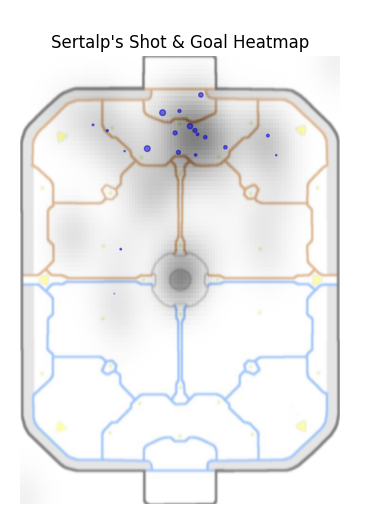
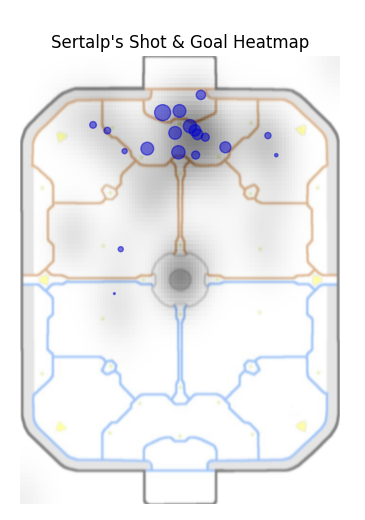
Made goal circles bigger for goal heatmaps, added records, fixed GD chart

diff --git a/src/boxcarstest.py b/src/boxcarstest.py
@@ -12,7 +12,7 @@
 # TODO: Demo heatmap
 # TODO: Auto detect games in latest streak, clear /json-new/, and copy them to /json-new/
 # TODO: Replace SF, SC with HF, HC
-# TODO: Update records (lowest non-shot xG goal etc)
+# TODO: Add corresponding matches to records.tsv
 
 import csv
 import json
@@ -34,7 +34,7 @@ from PIL import Image
 
 startTime = time.time()
 
-check_new = False  # Only processes new files (in separate directory)
+check_new = True  # Only processes new files (in separate directory)
 show_xg_scorelines = False # Shows xG scorelines and normal scorelines and replay names of games
 save_and_crop = True # Saves an image of the dashboard and then crops charts into their own images
 
@@ -334,6 +334,7 @@ my_nonshot_xg = 0
 your_nonshot_xg = 0
 their_nonshot_xg = 0
 
+
 my_goal_xg = 0
 your_goal_xg = 0
 their_goal_xg = 0
@@ -342,10 +343,23 @@ my_xg_over_time = []
 your_xg_over_time = []
 their_xg_over_time = []
 
-my_xg_per_goal_list = []
-your_xg_per_goal_list = []
-their_xg_per_goal_list = []
+my_shot_xg_over_time = []
+your_shot_xg_over_time = []
+their_shot_xg_over_time = []
 
+my_nonshot_xg_over_time = []
+your_nonshot_xg_over_time = []
+their_nonshot_xg_over_time = []
+
+my_xg_per_shot_goal_list = []
+your_xg_per_shot_goal_list = []
+their_xg_per_shot_goal_list = []
+
+my_xg_per_nonshot_goal_list = []
+your_xg_per_nonshot_goal_list = []
+their_xg_per_nonshot_goal_list = []
+
+# from shots
 my_xg_per_miss_list = []
 your_xg_per_miss_list = []
 their_xg_per_miss_list = []
@@ -402,6 +416,14 @@ for file in new_json_files:
         my_local_xg = 0
         your_local_xg = 0
         their_local_xg = 0
+        
+        my_local_shot_xg = 0
+        your_local_shot_xg = 0
+        their_local_shot_xg = 0
+        
+        my_local_nonshot_xg = 0
+        your_local_nonshot_xg = 0
+        their_local_nonshot_xg = 0
 
         my_local_goals_from_shots = 0
         your_local_goals_from_shots = 0
@@ -439,20 +461,23 @@ for file in new_json_files:
                             # shots
                             if my_list[row][5] == "True":
                                 my_shot_xg += float(my_list[row][4])
+                                my_local_shot_xg += float(my_list[row][4])
 
 
                             # non-shots
                             if my_list[row][5] == "False":
                                 my_nonshot_xg += float(my_list[row][4])
+                                my_local_nonshot_xg += float(my_list[row][4])
                                 # Non-shot Goals
                                 if my_list[row][6] == "True":
                                     my_goals_from_nonshots +=1
                                     my_local_goals_from_nonshots += 1
+                                    my_xg_per_nonshot_goal_list.append(float(my_list[row][4]))
 
                             # Shot Goals
                             if my_list[row][6] == "True" and my_list[row][5] == "True":
                                 my_goal_xg += float(my_list[row][4])
-                                my_xg_per_goal_list.append(float(my_list[row][4]))
+                                my_xg_per_shot_goal_list.append(float(my_list[row][4]))
                                 my_local_goals_from_shots += 1
                                 my_goals_from_shots += 1
                                 my_shots_goal_or_miss.append(1)
@@ -469,18 +494,22 @@ for file in new_json_files:
                             # shots
                             if my_list[row][5] == "True":
                                 your_shot_xg += float(my_list[row][4])
+                                your_local_shot_xg += float(my_list[row][4])
+
 
                             # non-shots
                             if my_list[row][5] == "False":
                                 your_nonshot_xg += float(my_list[row][4])
+                                your_local_nonshot_xg += float(my_list[row][4])
+
                                 if my_list[row][6] == "True":
                                     your_goals_from_nonshots += 1
                                     your_local_goals_from_nonshots += 1
-
+                                    your_xg_per_nonshot_goal_list.append(float(my_list[row][4]))
 
                             if my_list[row][6] == "True" and my_list[row][5] == "True":
                                 your_goal_xg += float(my_list[row][4])
-                                your_xg_per_goal_list.append(float(my_list[row][4]))
+                                your_xg_per_shot_goal_list.append(float(my_list[row][4]))
                                 your_local_goals_from_shots += 1
                                 your_goals_from_shots += 1
                                 your_shots_goal_or_miss.append(1)
@@ -496,17 +525,21 @@ for file in new_json_files:
                             # shots
                             if my_list[row][5] == "True":
                                 their_shot_xg += float(my_list[row][4])
+                                their_local_shot_xg += float(my_list[row][4])
 
                             # non-shots
                             if my_list[row][5] == "False":
                                 their_nonshot_xg += float(my_list[row][4])
+                                their_local_nonshot_xg += float(my_list[row][4])
                                 if my_list[row][6] == "True":
                                     their_goals_from_nonshots += 1
                                     their_local_goals_from_nonshots += 1
+                                    their_xg_per_nonshot_goal_list.append(float(my_list[row][4]))
+
 
                             if my_list[row][6] == "True" and my_list[row][5] == "True":
                                 their_goal_xg += float(my_list[row][4])
-                                their_xg_per_goal_list.append(float(my_list[row][4]))
+                                their_xg_per_shot_goal_list.append(float(my_list[row][4]))
                                 their_local_goals_from_shots += 1
                                 their_goals_from_shots += 1
                             elif my_list[row][6] == "False" and my_list[row][5] == "True":
@@ -931,6 +964,14 @@ for file in new_json_files:
         my_xg_over_time.append(my_local_xg)
         your_xg_over_time.append(your_local_xg)
         their_xg_over_time.append(their_local_xg)
+        
+        my_shot_xg_over_time.append(my_local_shot_xg)
+        your_shot_xg_over_time.append(your_local_shot_xg)
+        their_shot_xg_over_time.append(their_local_shot_xg)
+        
+        my_nonshot_xg_over_time.append(my_local_nonshot_xg)
+        your_nonshot_xg_over_time.append(your_local_nonshot_xg)
+        their_nonshot_xg_over_time.append(their_local_nonshot_xg)
 
         local_wentOvertime = False
 
@@ -1603,12 +1644,20 @@ our_xg_over_time = []
 my_goals_minus_xg_over_time = []
 your_goals_minus_xg_over_time = []
 our_goals_from_shots_over_time = []
+our_shot_xg_over_time = []
+our_nonshot_xg_over_time = []
 
 for xg in range(len(my_xg_over_time)):
     our_xg_over_time.append(my_xg_over_time[xg] + your_xg_over_time[xg])
     my_goals_minus_xg_over_time.append(my_goals_over_time[xg] - my_xg_over_time[xg])
     your_goals_minus_xg_over_time.append(your_goals_over_time[xg] - your_xg_over_time[xg])
     our_goals_from_shots_over_time.append(your_goals_from_shots_over_time[xg] + my_goals_from_shots_over_time[xg])
+
+for xg in range(len(my_shot_xg_over_time)):
+    our_shot_xg_over_time.append(my_shot_xg_over_time[xg] + your_shot_xg_over_time[xg])
+
+for xg in range(len(my_nonshot_xg_over_time)):
+    our_nonshot_xg_over_time.append(my_nonshot_xg_over_time[xg] + your_nonshot_xg_over_time[xg])
 
 ############
 
@@ -1935,12 +1984,12 @@ for match in range(len(my_goals_from_shots_over_time)):
 
 my_biggest_xg_miss = 0
 my_lowest_xg_goal = 0
-for shot in range(len(my_xg_per_goal_list)):
+for shot in range(len(my_xg_per_shot_goal_list)):
     if shot == 0:
-        my_lowest_xg_goal = my_xg_per_goal_list[shot]
+        my_lowest_xg_goal = my_xg_per_shot_goal_list[shot]
     else:
-        if my_xg_per_goal_list[shot] < my_lowest_xg_goal:
-            my_lowest_xg_goal = my_xg_per_goal_list[shot]
+        if my_xg_per_shot_goal_list[shot] < my_lowest_xg_goal:
+            my_lowest_xg_goal = my_xg_per_shot_goal_list[shot]
 
 for shot in range(len(my_xg_per_miss_list)):
     if my_xg_per_miss_list[shot] > my_biggest_xg_miss:
@@ -1948,12 +1997,12 @@ for shot in range(len(my_xg_per_miss_list)):
 
 your_biggest_xg_miss = 0
 your_lowest_xg_goal = 0
-for shot in range(len(your_xg_per_goal_list)):
+for shot in range(len(your_xg_per_shot_goal_list)):
     if shot == 0:
-        your_lowest_xg_goal = your_xg_per_goal_list[shot]
+        your_lowest_xg_goal = your_xg_per_shot_goal_list[shot]
     else:
-        if your_xg_per_goal_list[shot] < your_lowest_xg_goal:
-            your_lowest_xg_goal = your_xg_per_goal_list[shot]
+        if your_xg_per_shot_goal_list[shot] < your_lowest_xg_goal:
+            your_lowest_xg_goal = your_xg_per_shot_goal_list[shot]
 
 for shot in range(len(your_xg_per_miss_list)):
     if your_xg_per_miss_list[shot] > your_biggest_xg_miss:
@@ -1964,16 +2013,18 @@ our_lowest_xg_goal = min(your_lowest_xg_goal,my_lowest_xg_goal)
 
 their_biggest_xg_miss = 0
 their_lowest_xg_goal = 0
-for shot in range(len(their_xg_per_goal_list)):
+for shot in range(len(their_xg_per_shot_goal_list)):
     if shot == 0:
-        their_lowest_xg_goal = their_xg_per_goal_list[shot]
+        their_lowest_xg_goal = their_xg_per_shot_goal_list[shot]
     else:
-        if their_xg_per_goal_list[shot] < their_lowest_xg_goal:
-            their_lowest_xg_goal = their_xg_per_goal_list[shot]
+        if their_xg_per_shot_goal_list[shot] < their_lowest_xg_goal:
+            their_lowest_xg_goal = their_xg_per_shot_goal_list[shot]
 
 for shot in range(len(their_xg_per_miss_list)):
     if their_xg_per_miss_list[shot] > their_biggest_xg_miss:
         their_biggest_xg_miss = their_xg_per_miss_list[shot]
+
+
 
 my_highest_goal_scored = 0
 my_furthest_goal_scored = 0
@@ -2212,10 +2263,12 @@ individual_record_data = [["Most goals scored in one match", max(my_goals_per_ma
                           ["Highest xG in one match", round(max(my_xg_over_time),2), round(max(your_xg_over_time),2)],
                           ["Highest xG without scoring in one match (only shot-goals)",
                            round(my_highest_xg_without_scoring, 2), round(your_highest_xg_without_scoring, 2)],
+                          ["Highest shot xG in one match", round(max(my_shot_xg_over_time), 2), round(max(your_shot_xg_over_time), 2)],
+                          ["Highest non-shot xG in one match", round(max(my_nonshot_xg_over_time), 2), round(max(your_nonshot_xg_over_time), 2)],
                           ["Biggest xG overperformance in one match (only shot-goals)", str(my_biggest_xg_overperformance_goals) + "G from " + str(round(my_biggest_xg_overperformance_xg, 2)) + " xG",
                            str(your_biggest_xg_overperformance_goals) + "G from " + str(round(your_biggest_xg_overperformance_xg, 2)) + " xG"],
                           ["Biggest xG overperformance in one match (only shot-goals) %","%.0f"%(((my_biggest_xg_overperformance_goals/my_biggest_xg_overperformance_xg)*100)-100)+"%","%.0f"%(((your_biggest_xg_overperformance_goals/your_biggest_xg_overperformance_xg)*100)-100)+"%"],
-                          ["Biggest chance missed (xG)", round(my_biggest_xg_miss,3), round(your_biggest_xg_miss,3)],
+                          ["Biggest shot chance missed (xG)", round(my_biggest_xg_miss,3), round(your_biggest_xg_miss,3)],
                           ["Unlikeliest shot-goal scored (xG)", round(my_lowest_xg_goal,3), round(your_lowest_xg_goal,3)],
                           ["Furthest goal scored (m)", round(my_furthest_goal_scored/100), round(your_furthest_goal_scored/100)],
                           ["Highest goal scored (m)", round(my_highest_goal_scored/100), round(your_highest_goal_scored/100)],
@@ -2225,7 +2278,7 @@ individual_record_data = [["Most goals scored in one match", max(my_goals_per_ma
                            your_most_consecutive_mvp],
                           ["Most consecutive matches without MVP", my_most_consecutive_nomvp_in,
                            your_most_consecutive_nomvp_in],
-                          ["Most consecutive Shot Goals",my_most_consecutive_goals_from_shots, your_most_consecutive_goals_from_shots],
+                          ["Most conescutive goals from shots",my_most_consecutive_goals_from_shots, your_most_consecutive_goals_from_shots],
                           ["Most consecutive misses from shots",my_most_consecutive_misses_from_shots,your_most_consecutive_misses_from_shots],
                           ["Most goal involvements (G+A) in one match",my_most_goals_or_assists_in_one_game,your_most_goals_or_assists_in_one_game],
                           ["Most consecutive matches with a goal involvement",my_most_consecutive_games_scored_or_assisted_in,your_most_consecutive_games_scored_or_assisted_in],
@@ -2409,6 +2462,10 @@ team_record_data = [["Longest winstreak", biggest_winstreak, biggest_lossstreak]
                     ["Most assists in one match", max(our_assists_over_time), max(their_assists_over_time)],
                     ["Most saves in one match",max(our_saves_over_time),max(their_saves_over_time)],
                     ["Highest xG in one match",round(max(our_xg_over_time),2),round(max(their_xg_over_time),2)],
+                    ["Highest shot xG in one match", round(max(our_shot_xg_over_time), 2),
+                     round(max(their_shot_xg_over_time), 2)],
+                    ["Highest non-shot xG in one match", round(max(our_nonshot_xg_over_time), 2),
+                     round(max(their_nonshot_xg_over_time), 2)],
                     ["Lowest xG in one match", round(min(our_xg_over_time), 2), round(min(their_xg_over_time), 2)],
                     ["Highest xG without scoring in one match (only shot-goals)",
                      round(our_highest_xg_without_scoring, 2), round(their_highest_xg_without_scoring, 2)],
@@ -2422,7 +2479,7 @@ team_record_data = [["Longest winstreak", biggest_winstreak, biggest_lossstreak]
                      "%.0f" % (((
                                             their_biggest_xg_overperformance_goals / their_biggest_xg_overperformance_xg) * 100) - 100) + "%"],
 
-                    ["Biggest chance missed (xG)", round(our_biggest_xg_miss, 3), round(their_biggest_xg_miss, 3)],
+                    ["Biggest shot chance missed (xG)", round(our_biggest_xg_miss, 3), round(their_biggest_xg_miss, 3)],
                     ["Unlikeliest shot-goal scored (xG)", round(our_lowest_xg_goal, 3), round(their_lowest_xg_goal, 3)],
                     ["Furthest goal scored (m)",round(max(my_goals_distancetogoal+your_goals_distancetogoal)/100),round(max(their_goals_distancetogoal)/100)],
                     ["Highest goal scored (m)",round(max(my_goals_z+your_goals_z)/100),round(max(their_goals_z)/100)],
@@ -2430,7 +2487,7 @@ team_record_data = [["Longest winstreak", biggest_winstreak, biggest_lossstreak]
                      their_most_consecutive_mvp],
                     ["Most consecutive matches without MVP", our_most_consecutive_nomvp_in,
                      their_most_consecutive_nomvp_in],
-                    ["Most consecutive Shot Goals", our_most_consecutive_goals_from_shots,
+                    ["Most consecutive goals from shots", our_most_consecutive_goals_from_shots,
                      their_most_consecutive_goals_from_shots],
                     ["Most consecutive misses from shots", our_most_consecutive_misses_from_shots,
                      their_most_consecutive_misses_from_shots],
@@ -2895,8 +2952,10 @@ for streak_game_num in streak_start_games:
 ax11.set_ylabel("ASSISTS", rotation="horizontal", ha="center", va="center", labelpad=35)
 
 my_goal_sizes_for_scatter = []
-for xg in my_xg_per_goal_list:
-    my_goal_sizes_for_scatter.append(xg * 20)
+goal_size_multiplier = 160
+
+for xg in my_xg_per_shot_goal_list:
+    my_goal_sizes_for_scatter.append(xg * goal_size_multiplier)
 
 ax13 = fig.add_subplot(spec[4, 0])  # Heatmap of Allan's goals
 heatmap, xedges, yedges = np.histogram2d(my_shots_y + [pitch_min_y] + [pitch_max_y],
@@ -2916,8 +2975,8 @@ ax13.axis("off")
 ax13.set_title(my_alias + "'s Shot & Goal Heatmap")
 
 your_goal_sizes_for_scatter = []
-for xg in your_xg_per_goal_list:
-    your_goal_sizes_for_scatter.append(xg * 20)
+for xg in your_xg_per_shot_goal_list:
+    your_goal_sizes_for_scatter.append(xg * goal_size_multiplier)
 
 ax14 = fig.add_subplot(spec[4, 0])  # Heatmap of Sertalp's goals
 heatmap, xedges, yedges = np.histogram2d(your_shots_y + [pitch_min_y] + [pitch_max_y],
@@ -2946,8 +3005,8 @@ ax15.axis("off")
 ax15.set_title("Our Shot & Goal Heatmap")
 
 their_goal_sizes_for_scatter = []
-for xg in their_xg_per_goal_list:
-    their_goal_sizes_for_scatter.append(xg * 20)
+for xg in their_xg_per_shot_goal_list:
+    their_goal_sizes_for_scatter.append(xg * goal_size_multiplier)
 
 ax16 = fig.add_subplot(spec[4, 0])  # Heatmap of Sertalp's goals
 heatmap, xedges, yedges = np.histogram2d(their_shots_y + [pitch_min_y] + [pitch_max_y],
@@ -3159,18 +3218,18 @@ rolling_avg_window = 10
 if games_nr < 30:
     rolling_avg_window = 1
 
-my_xg_over_time_rolling_avg = np.average(sliding_window_view(my_xg_over_time, window_shape=rolling_avg_window), axis=1)
+my_xg_over_time_rolling_avg = np.average(sliding_window_view(my_shot_xg_over_time, window_shape=rolling_avg_window), axis=1)
 my_goals_from_shots_over_time_rolling_avg = np.average(
     sliding_window_view(my_goals_from_shots_over_time, window_shape=rolling_avg_window), axis=1)
-your_xg_over_time_rolling_avg = np.average(sliding_window_view(your_xg_over_time, window_shape=rolling_avg_window),
+your_xg_over_time_rolling_avg = np.average(sliding_window_view(your_shot_xg_over_time, window_shape=rolling_avg_window),
                                            axis=1)
 your_goals_from_shots_over_time_rolling_avg = np.average(
     sliding_window_view(your_goals_from_shots_over_time, window_shape=rolling_avg_window), axis=1)
-our_xg_over_time_rolling_avg = np.average(sliding_window_view(our_xg_over_time, window_shape=rolling_avg_window),
+our_xg_over_time_rolling_avg = np.average(sliding_window_view(our_shot_xg_over_time, window_shape=rolling_avg_window),
                                           axis=1)
 our_goals_from_shots_over_time_rolling_avg = np.average(
     sliding_window_view(our_goals_from_shots_over_time, window_shape=rolling_avg_window), axis=1)
-their_xg_over_time_rolling_avg = np.average(sliding_window_view(their_xg_over_time, window_shape=rolling_avg_window),
+their_xg_over_time_rolling_avg = np.average(sliding_window_view(their_shot_xg_over_time, window_shape=rolling_avg_window),
                                             axis=1)
 their_goals_from_shots_over_time_rolling_avg = np.average(
     sliding_window_view(their_goals_from_shots_over_time, window_shape=rolling_avg_window), axis=1)
